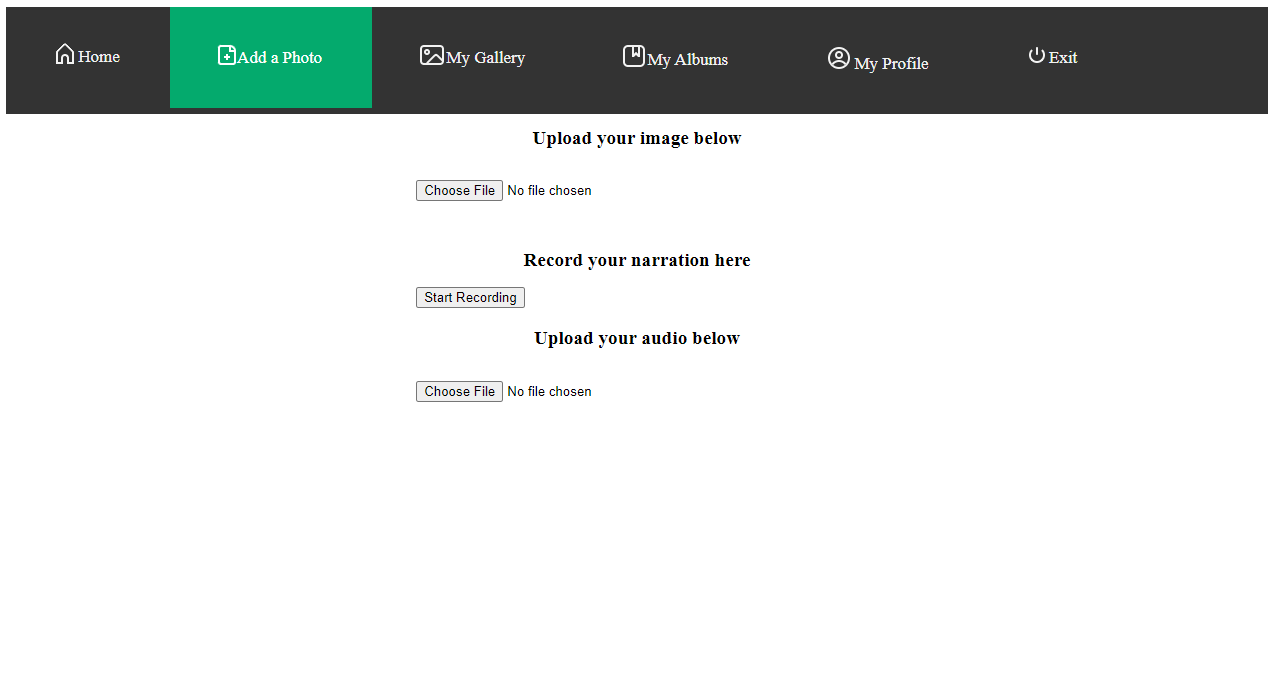
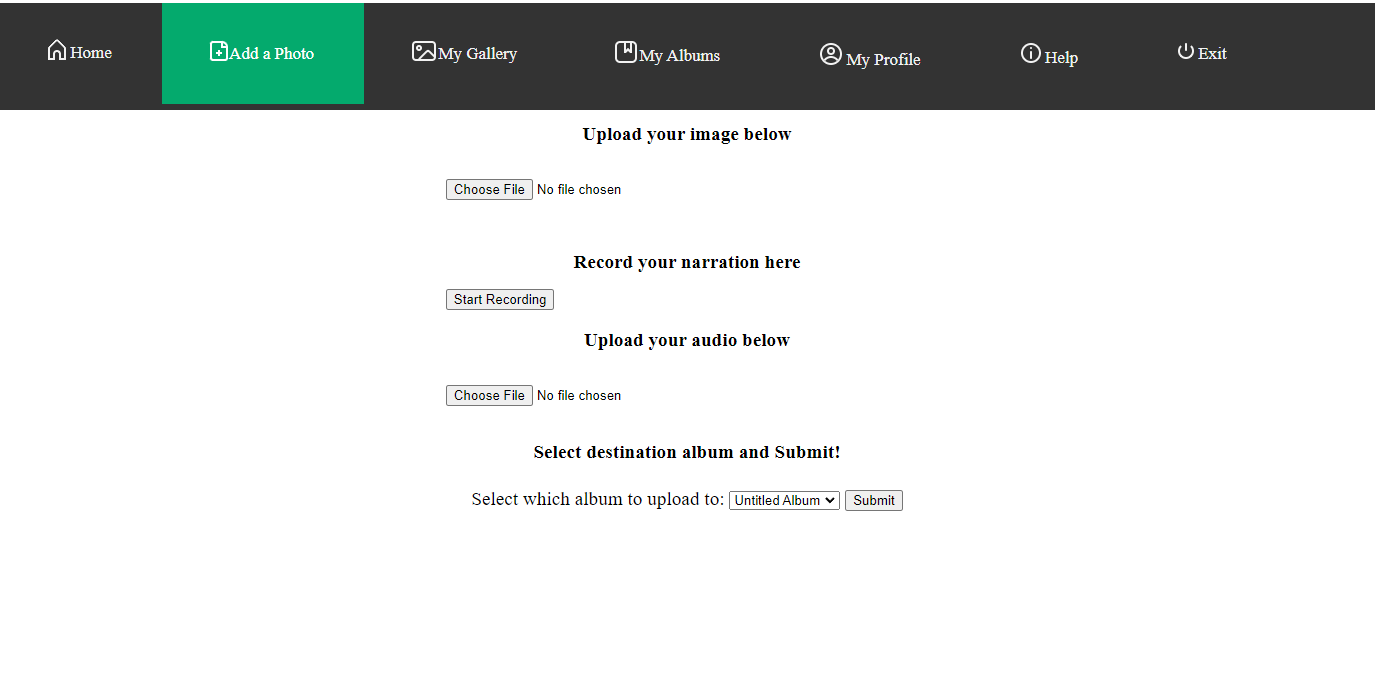
modified some accessibilty issue, updated readme

diff --git a/css/styles.css b/css/styles.css
@@ -6,11 +6,11 @@
     transform: translate(-50%, -50%);
 }
 #mainHeader{
-    font-family: 'Arial';
+    font-family: 'Tahoma';
     font-size: 8vw;
     color: white;
-    -webkit-text-stroke-width: 0.5vw;
-    -webkit-text-stroke-color: black;
+    -webkit-text-stroke-width: 0.3vw;
+    -webkit-text-stroke-color: rgb(3, 3, 3);
     margin: 0px 0px 30px 0px;
 }
 #mainButton{
@@ -42,8 +42,8 @@ footer span {
 #header1{
     font-family: 'Arial';
     font-size: 8vw;
-    color: white;
-    -webkit-text-stroke-width: 0.5vw;
+    color: rgb(134, 133, 133);
+    -webkit-text-stroke-width: 0.3vw;
     -webkit-text-stroke-color: black;
     margin: 10px 0px 30px 0px;
 }

diff --git a/help.html b/help.html
@@ -24,7 +24,7 @@
 
     <h1 id="pageTitle">Help</h1>
 
-    <div class="help-instructions">
+    <div class="help-instructions" style="font-size: xx-large;">
         <b>Uploading A Photo</b>
         <p> 1. Click the choose file button under Upload your Image Below</p>
         <p> 2. Select the image you want from your devices file system</p>

diff --git a/welcome.html b/welcome.html
@@ -11,6 +11,8 @@
     background-repeat: 'no-repeat';
     background-attachment: fixed; 
     background-size: 100% 100%;
+    background-color: rgba(255, 255, 255, 0.247);
+    background-blend-mode: overlay;
   }
 </style>
 

diff --git a/README.md b/README.md
@@ -36,8 +36,10 @@ Team members:
         -This is the main page, the top navigation bar includes text and icons for easier recognition <br>
         -**"Add a Photo"** redirect user to the album creation page where user can upload image and record audio narration<br>
         -**"My Gallery"** Shows all the photo that has been uploaded <br>
-        -**"My Albums"** (Work In progress)<br>
-        -**"My Profile"** (Work In progress)
+        -**"My Albums"** Shows collection of photos in a group<br>
+        -**"My Profile"** shows the user profile information<br>
+        -**"Help"** shows detailed instruction
+        -**"Exit"** return to welcome page
 
 <br><br><br>
 <img src ="documentation_Images/add_photo.png">
@@ -47,9 +49,21 @@ Team members:
 <img src ="documentation_Images/image.png">
         -This is an example of what an uploaded image looks like and the voice bar below is the recorded narration<br>
         -click the record audio to begin record. For first time users, you need to allow browser to access to your microphone<br>
-        -**NOTE:** to download a copy of the audio narration, you need to play the audio and the download option will appear
+        -you can click record again, and it will replace your previous recording.<br>
+        -image and recoding will not be saved until it is submitted, user can redo as much as they can<br>
+        -**NOTE:** to download a copy of the audio narration, you need to play the audio and the download option will appear<br>
+        -the 3 dot menu will show the audio download and the playback speed
 
 <br><br><br>
 <img src ="documentation_Images/gallery.png">
         -The gallery page shows all the photos that have been uploaded
+
+<br><br><br>
+<img src ="documentation_Images/albums.png">
+        -The album page shows the grouped photos with their corresponding narration
+
+
+<br><br><br>
+<img src ="documentation_Images/help.png">
+        -The help page shows detailed instruction on how to use the website
 </font>
